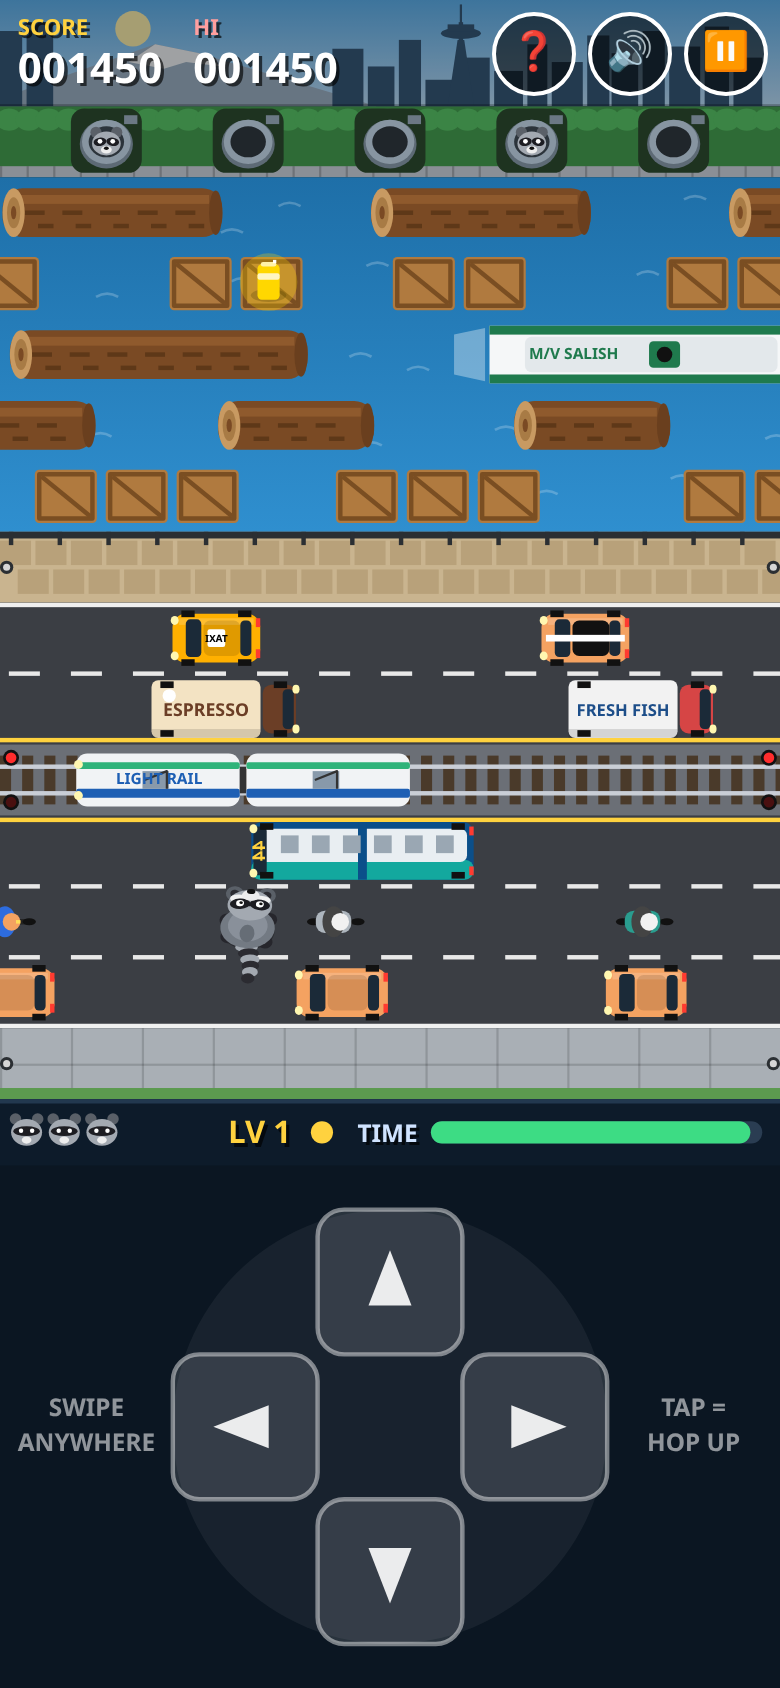
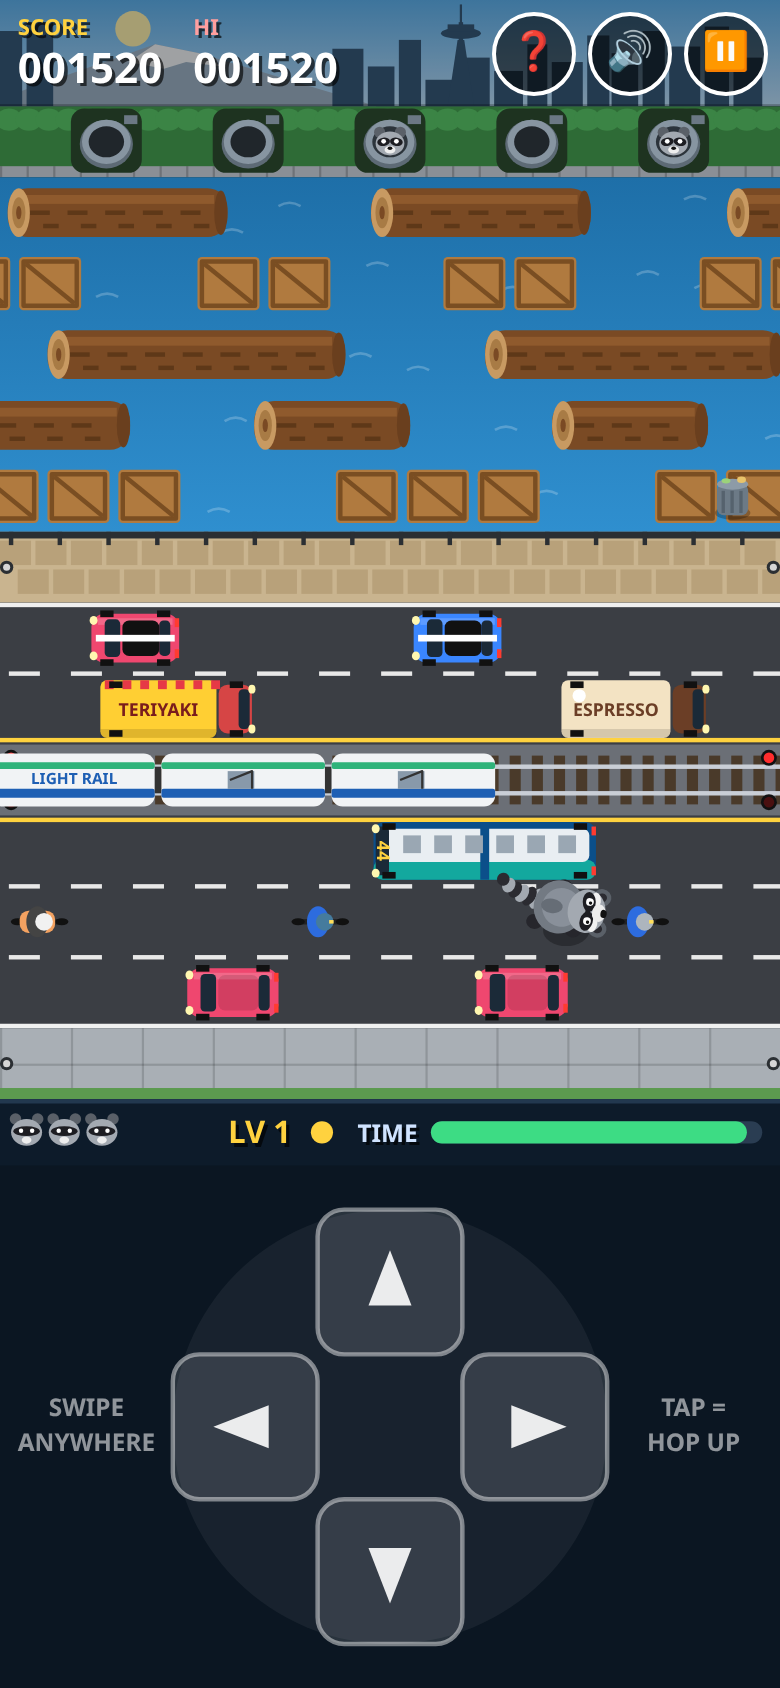
Vehicle text always readable in both travel directions; SW v2

diff --git a/index.html b/index.html
@@ -289,6 +289,8 @@ function drawJimFront(x,y,s,t,mood='happy'){g.save();g.translate(x,y);g.scale(s,
  g.strokeStyle='#222';g.lineWidth=1.6;g.beginPath();if(mood=='sad'){g.arc(0,12,5,PI*1.15,PI*1.85)}else{g.moveTo(0,3);g.lineTo(0,6);g.arc(-3.5,6,3.5,0,PI*.9);g.moveTo(7,6);g.arc(3.5,6,3.5,0,PI*.9,false)}g.stroke();
  if(mood!='sad'){el(0,10.5,2.4,2,'#e8708a')}
  g.restore()}
+// text on mirrored vehicle art: un-mirror locally so it always reads left-to-right
+function ut(s,x,y,dir,rot=0){g.save();g.translate(x,y);if(dir<0)g.scale(-1,1);if(rot)g.rotate(rot);g.textAlign='center';g.textBaseline='middle';g.fillText(s,0,0);g.restore()}
 // ---------- vehicles & platforms (front is +x; mirrored for leftward lanes)
 function wheels(hw,w){g.fillStyle='#111';for(const xx of [-hw+5,hw-11])for(const yy of [-12.5,9.5])g.fillRect(xx,yy,6,3)}
 function drawVeh(o,x,y,dir,night){const w=o.w,hw=w/2;g.save();g.translate(x+hw,y+T/2);if(dir<0)g.scale(-1,1);
@@ -296,19 +298,19 @@ function drawVeh(o,x,y,dir,night){const w=o.w,hw=w/2;g.save();g.translate(x+hw,y
  if(ty=='bike'||ty=='scooter'){g.fillStyle='#222';g.fillRect(-11,-1.2,22,2.4);el(-10,0,3,1.6,'#111');el(10,0,3,1.6,'#111');if(ty=='scooter'){rr(-9,-5,16,10,4,o.col)}
   el(-1,0,5,7,ty=='bike'?'#2d6cdf':'#444');el(2,0,4,4,ty=='bike'?o.col:'#f1f1f1');if(ty=='bike'){g.fillStyle='#ffde59';g.fillRect(4,-.8,2,1.6)}if(night)el(12,0,1.6,1.6,'#fff7b0')}
  else if(ty=='bus'){rr(-hw+1,-13,w-2,26,5,'#0b4f8a');rr(-hw+1,4,w-2,9,4,'#13a89e');rr(-hw+4,-10,w-8,15,3,'#e9eef2');g.fillStyle='#0b4f8a';g.fillRect(-2,-13,4,26);g.fillStyle='#9aa7b3';for(let i=-hw+10;i<hw-12;i+=14)g.fillRect(i,-7,8,8);
-  rr(hw-8,-11,6,22,2,'#1b2a38');setFont(8);g.fillStyle='#ffd23f';g.textAlign='center';g.textBaseline='middle';g.save();g.translate(hw-5,0);g.rotate(PI/2);g.fillText('44',0,0);g.restore();wheels(hw,w);
+  rr(hw-8,-11,6,22,2,'#1b2a38');setFont(8);g.fillStyle='#ffd23f';g.textAlign='center';g.textBaseline='middle';ut('44',hw-5,0,dir,PI/2);wheels(hw,w);
   el(hw-2,-10,1.8,2,'#fff7b0');el(hw-2,10,1.8,2,'#fff7b0');g.fillStyle='#ff3b30';g.fillRect(-hw+1,-11,2,4);g.fillRect(-hw+1,7,2,4)}
  else if(ty=='truck'||ty=='foodtruck'||ty=='coffee'){const cab=15;rr(hw-cab-1,-11,cab,22,4,ty=='coffee'?'#6b3e26':'#d64545');rr(hw-7,-9,5,18,2,'#1b2a38');
   const bc=ty=='foodtruck'?'#ffcf33':ty=='coffee'?'#f3e3c3':'#f2f2f2';rr(-hw+1,-13,w-cab-3,26,3,bc);g.fillStyle='rgba(0,0,0,.12)';g.fillRect(-hw+1,9,w-cab-3,4);
   if(ty=='foodtruck'){g.fillStyle='#e63946';for(let i=-hw+3;i<hw-cab-4;i+=8)g.fillRect(i,-13,4,4)}
-  const lab=ty=='foodtruck'?'TERIYAKI':ty=='coffee'?'ESPRESSO':'FRESH FISH';setFont(ty=='truck'?7.5:8);g.fillStyle=ty=='coffee'?'#6b3e26':ty=='foodtruck'?'#7a1d1d':'#1d4e89';g.textAlign='center';g.textBaseline='middle';g.fillText(lab,(-hw+1+hw-cab-2)/2,1);
+  const lab=ty=='foodtruck'?'TERIYAKI':ty=='coffee'?'ESPRESSO':'FRESH FISH';setFont(ty=='truck'?7.5:8);g.fillStyle=ty=='coffee'?'#6b3e26':ty=='foodtruck'?'#7a1d1d':'#1d4e89';g.textAlign='center';g.textBaseline='middle';ut(lab,(-hw+1+hw-cab-2)/2,1,dir);
   if(ty=='coffee'){el(-hw+9,-6,3,3,'#fff');}wheels(hw,w);el(hw-1,-9,1.6,2,'#fff7b0');el(hw-1,9,1.6,2,'#fff7b0')}
  else{const col=ty=='taxi'?'#ffb000':o.col;rr(-hw+1,-11,w-2,22,6,col);g.fillStyle='rgba(255,255,255,.18)';g.fillRect(-hw+4,-9,w-8,3);
   rr(hw-14,-8.5,7,17,2,'#1b2a38');rr(-hw+5,-8,5,16,2,'#1b2a38');rr(-hw+10,-8,w-25,16,3,ty=='sport'?'#111':'rgba(0,0,0,.12)');
-  if(ty=='sport'){g.fillStyle='#fff';g.fillRect(-hw+3,-1.5,w-6,3)}if(ty=='taxi'){rr(-4,-4,8,8,1,'#fff');setFont(4.5);g.fillStyle='#000';g.textAlign='center';g.textBaseline='middle';g.fillText('TAXI',0,.3)}
+  if(ty=='sport'){g.fillStyle='#fff';g.fillRect(-hw+3,-1.5,w-6,3)}if(ty=='taxi'){rr(-4,-4,8,8,1,'#fff');setFont(4.5);g.fillStyle='#000';g.textAlign='center';g.textBaseline='middle';ut('TAXI',0,.3,dir)}
   wheels(hw,w);el(hw-2,-8,1.8,2,'#fff7b0');el(hw-2,8,1.8,2,'#fff7b0');g.fillStyle='#ff3b30';g.fillRect(-hw+1,-9,2,4);g.fillRect(-hw+1,5,2,4)}
  g.restore()}
-function drawTrain(x,y,len,dir){const cars=Math.round(len/(T*2.4));for(let i=0;i<cars;i++){const cx=x+i*T*2.4,w=T*2.4-3;rr(cx+1,y+4,w,T-8,5,'#f1f3f5');rr(cx+1,y+T-12,w,4,1,'#1e5fb4');rr(cx+1,y+8,w,3,1,'#2fb37a');g.fillStyle='#8899aa';g.fillRect(cx+w/2-6,y+12,12,8);g.strokeStyle='#333';g.lineWidth=1;g.beginPath();g.moveTo(cx+w/2-5,y+16);g.lineTo(cx+w/2+5,y+12);g.lineTo(cx+w/2+5,y+20);g.stroke();
+function drawTrain(x,y,len,dir){const cars=Math.round(len/(T*2.4));for(let i=0;i<cars;i++){const cx=x+i*T*2.4,w=T*2.4-3;rr(cx+1,y+4,w,T-8,5,'#f1f3f5');rr(cx+1,y+T-12,w,4,1,'#1e5fb4');rr(cx+1,y+8,w,3,1,'#2fb37a');if(i>0){g.fillStyle='#8899aa';g.fillRect(cx+w/2-6,y+12,12,8);g.strokeStyle='#333';g.lineWidth=1;g.beginPath();g.moveTo(cx+w/2-5,y+16);g.lineTo(cx+w/2+5,y+12);g.lineTo(cx+w/2+5,y+20);g.stroke();}
   if(i<cars-1){g.fillStyle='#333';g.fillRect(cx+w+1,y+10,3,T-20)}}
  const fx=dir>0?x+cars*T*2.4-4:x+2;el(fx,y+9,2,2,'#fff7b0');el(fx,y+T-9,2,2,'#fff7b0');setFont(7);g.fillStyle='#1e5fb4';g.textAlign='center';g.textBaseline='middle';g.fillText('LIGHT RAIL',x+T*1.2,y+T/2)}
 function drawLog(x,y,w){rr(x,y+5,w,T-10,9,'#7a4a24');g.fillStyle='#8f5a2d';g.fillRect(x+6,y+8,w-12,4);g.fillStyle='#5e3818';for(let i=x+10;i<x+w-10;i+=17){g.fillRect(i,y+15,9,2);g.fillRect(i+6,y+21,7,2)}
@@ -321,7 +323,7 @@ function drawFerry(x,y,w,dir){g.save();g.translate(x+w/2,y+T/2);if(dir<0)g.scale
  g.fillStyle='rgba(255,255,255,.35)';g.beginPath();g.moveTo(-hw-14,-9);g.lineTo(-hw,-12);g.lineTo(-hw,12);g.lineTo(-hw-14,9);g.fill();
  g.fillStyle='#f5f7f8';g.beginPath();g.moveTo(-hw+2,-13);g.lineTo(hw-12,-13);g.quadraticCurveTo(hw+2,0,hw-12,13);g.lineTo(-hw+2,13);g.closePath();g.fill();
  g.fillStyle='#1f7a4d';g.fillRect(-hw+2,9,w-16,4);g.fillRect(-hw+2,-13,w-16,4);rr(-hw+18,-8,w-46,16,3,'#e3e8eb');rr(-6,-6,14,12,2,'#1f7a4d');el(1,0,3.5,3.5,'#111');
- setFont(7);g.fillStyle='#1f7a4d';g.textAlign='center';g.textBaseline='middle';g.fillText('M/V SALISH',-hw+40,0);g.restore()}
+ setFont(7);g.fillStyle='#1f7a4d';g.textAlign='center';g.textBaseline='middle';ut('M/V SALISH',-hw+40,0,dir);g.restore()}
 function drawOrca(x,y,w,dir,t){g.save();g.translate(x+w/2,y+T/2);if(dir<0)g.scale(-1,1);const hw=w/2,f=Math.sin(t*4)*3;
  g.fillStyle='#111';g.beginPath();g.moveTo(-hw-6,-7+f);g.lineTo(-hw+8,0);g.lineTo(-hw-6,7+f);g.fill();el(0,0,hw-2,11,'#141414');el(hw-14,0,12,9,'#141414');
  el(hw-16,-6,5,2.4,'#fff');el(hw-16,6,5,2.4,'#fff');el(-4,0,14,4,'#2b2b2b');el(-2,0,6,2,'#ddd');

diff --git a/src/d_draw.js b/src/d_draw.js
@@ -42,6 +42,8 @@ function drawJimFront(x,y,s,t,mood='happy'){g.save();g.translate(x,y);g.scale(s,
  g.strokeStyle='#222';g.lineWidth=1.6;g.beginPath();if(mood=='sad'){g.arc(0,12,5,PI*1.15,PI*1.85)}else{g.moveTo(0,3);g.lineTo(0,6);g.arc(-3.5,6,3.5,0,PI*.9);g.moveTo(7,6);g.arc(3.5,6,3.5,0,PI*.9,false)}g.stroke();
  if(mood!='sad'){el(0,10.5,2.4,2,'#e8708a')}
  g.restore()}
+// text on mirrored vehicle art: un-mirror locally so it always reads left-to-right
+function ut(s,x,y,dir,rot=0){g.save();g.translate(x,y);if(dir<0)g.scale(-1,1);if(rot)g.rotate(rot);g.textAlign='center';g.textBaseline='middle';g.fillText(s,0,0);g.restore()}
 // ---------- vehicles & platforms (front is +x; mirrored for leftward lanes)
 function wheels(hw,w){g.fillStyle='#111';for(const xx of [-hw+5,hw-11])for(const yy of [-12.5,9.5])g.fillRect(xx,yy,6,3)}
 function drawVeh(o,x,y,dir,night){const w=o.w,hw=w/2;g.save();g.translate(x+hw,y+T/2);if(dir<0)g.scale(-1,1);
@@ -49,19 +51,19 @@ function drawVeh(o,x,y,dir,night){const w=o.w,hw=w/2;g.save();g.translate(x+hw,y
  if(ty=='bike'||ty=='scooter'){g.fillStyle='#222';g.fillRect(-11,-1.2,22,2.4);el(-10,0,3,1.6,'#111');el(10,0,3,1.6,'#111');if(ty=='scooter'){rr(-9,-5,16,10,4,o.col)}
   el(-1,0,5,7,ty=='bike'?'#2d6cdf':'#444');el(2,0,4,4,ty=='bike'?o.col:'#f1f1f1');if(ty=='bike'){g.fillStyle='#ffde59';g.fillRect(4,-.8,2,1.6)}if(night)el(12,0,1.6,1.6,'#fff7b0')}
  else if(ty=='bus'){rr(-hw+1,-13,w-2,26,5,'#0b4f8a');rr(-hw+1,4,w-2,9,4,'#13a89e');rr(-hw+4,-10,w-8,15,3,'#e9eef2');g.fillStyle='#0b4f8a';g.fillRect(-2,-13,4,26);g.fillStyle='#9aa7b3';for(let i=-hw+10;i<hw-12;i+=14)g.fillRect(i,-7,8,8);
-  rr(hw-8,-11,6,22,2,'#1b2a38');setFont(8);g.fillStyle='#ffd23f';g.textAlign='center';g.textBaseline='middle';g.save();g.translate(hw-5,0);g.rotate(PI/2);g.fillText('44',0,0);g.restore();wheels(hw,w);
+  rr(hw-8,-11,6,22,2,'#1b2a38');setFont(8);g.fillStyle='#ffd23f';g.textAlign='center';g.textBaseline='middle';ut('44',hw-5,0,dir,PI/2);wheels(hw,w);
   el(hw-2,-10,1.8,2,'#fff7b0');el(hw-2,10,1.8,2,'#fff7b0');g.fillStyle='#ff3b30';g.fillRect(-hw+1,-11,2,4);g.fillRect(-hw+1,7,2,4)}
  else if(ty=='truck'||ty=='foodtruck'||ty=='coffee'){const cab=15;rr(hw-cab-1,-11,cab,22,4,ty=='coffee'?'#6b3e26':'#d64545');rr(hw-7,-9,5,18,2,'#1b2a38');
   const bc=ty=='foodtruck'?'#ffcf33':ty=='coffee'?'#f3e3c3':'#f2f2f2';rr(-hw+1,-13,w-cab-3,26,3,bc);g.fillStyle='rgba(0,0,0,.12)';g.fillRect(-hw+1,9,w-cab-3,4);
   if(ty=='foodtruck'){g.fillStyle='#e63946';for(let i=-hw+3;i<hw-cab-4;i+=8)g.fillRect(i,-13,4,4)}
-  const lab=ty=='foodtruck'?'TERIYAKI':ty=='coffee'?'ESPRESSO':'FRESH FISH';setFont(ty=='truck'?7.5:8);g.fillStyle=ty=='coffee'?'#6b3e26':ty=='foodtruck'?'#7a1d1d':'#1d4e89';g.textAlign='center';g.textBaseline='middle';g.fillText(lab,(-hw+1+hw-cab-2)/2,1);
+  const lab=ty=='foodtruck'?'TERIYAKI':ty=='coffee'?'ESPRESSO':'FRESH FISH';setFont(ty=='truck'?7.5:8);g.fillStyle=ty=='coffee'?'#6b3e26':ty=='foodtruck'?'#7a1d1d':'#1d4e89';g.textAlign='center';g.textBaseline='middle';ut(lab,(-hw+1+hw-cab-2)/2,1,dir);
   if(ty=='coffee'){el(-hw+9,-6,3,3,'#fff');}wheels(hw,w);el(hw-1,-9,1.6,2,'#fff7b0');el(hw-1,9,1.6,2,'#fff7b0')}
  else{const col=ty=='taxi'?'#ffb000':o.col;rr(-hw+1,-11,w-2,22,6,col);g.fillStyle='rgba(255,255,255,.18)';g.fillRect(-hw+4,-9,w-8,3);
   rr(hw-14,-8.5,7,17,2,'#1b2a38');rr(-hw+5,-8,5,16,2,'#1b2a38');rr(-hw+10,-8,w-25,16,3,ty=='sport'?'#111':'rgba(0,0,0,.12)');
-  if(ty=='sport'){g.fillStyle='#fff';g.fillRect(-hw+3,-1.5,w-6,3)}if(ty=='taxi'){rr(-4,-4,8,8,1,'#fff');setFont(4.5);g.fillStyle='#000';g.textAlign='center';g.textBaseline='middle';g.fillText('TAXI',0,.3)}
+  if(ty=='sport'){g.fillStyle='#fff';g.fillRect(-hw+3,-1.5,w-6,3)}if(ty=='taxi'){rr(-4,-4,8,8,1,'#fff');setFont(4.5);g.fillStyle='#000';g.textAlign='center';g.textBaseline='middle';ut('TAXI',0,.3,dir)}
   wheels(hw,w);el(hw-2,-8,1.8,2,'#fff7b0');el(hw-2,8,1.8,2,'#fff7b0');g.fillStyle='#ff3b30';g.fillRect(-hw+1,-9,2,4);g.fillRect(-hw+1,5,2,4)}
  g.restore()}
-function drawTrain(x,y,len,dir){const cars=Math.round(len/(T*2.4));for(let i=0;i<cars;i++){const cx=x+i*T*2.4,w=T*2.4-3;rr(cx+1,y+4,w,T-8,5,'#f1f3f5');rr(cx+1,y+T-12,w,4,1,'#1e5fb4');rr(cx+1,y+8,w,3,1,'#2fb37a');g.fillStyle='#8899aa';g.fillRect(cx+w/2-6,y+12,12,8);g.strokeStyle='#333';g.lineWidth=1;g.beginPath();g.moveTo(cx+w/2-5,y+16);g.lineTo(cx+w/2+5,y+12);g.lineTo(cx+w/2+5,y+20);g.stroke();
+function drawTrain(x,y,len,dir){const cars=Math.round(len/(T*2.4));for(let i=0;i<cars;i++){const cx=x+i*T*2.4,w=T*2.4-3;rr(cx+1,y+4,w,T-8,5,'#f1f3f5');rr(cx+1,y+T-12,w,4,1,'#1e5fb4');rr(cx+1,y+8,w,3,1,'#2fb37a');if(i>0){g.fillStyle='#8899aa';g.fillRect(cx+w/2-6,y+12,12,8);g.strokeStyle='#333';g.lineWidth=1;g.beginPath();g.moveTo(cx+w/2-5,y+16);g.lineTo(cx+w/2+5,y+12);g.lineTo(cx+w/2+5,y+20);g.stroke();}
   if(i<cars-1){g.fillStyle='#333';g.fillRect(cx+w+1,y+10,3,T-20)}}
  const fx=dir>0?x+cars*T*2.4-4:x+2;el(fx,y+9,2,2,'#fff7b0');el(fx,y+T-9,2,2,'#fff7b0');setFont(7);g.fillStyle='#1e5fb4';g.textAlign='center';g.textBaseline='middle';g.fillText('LIGHT RAIL',x+T*1.2,y+T/2)}
 function drawLog(x,y,w){rr(x,y+5,w,T-10,9,'#7a4a24');g.fillStyle='#8f5a2d';g.fillRect(x+6,y+8,w-12,4);g.fillStyle='#5e3818';for(let i=x+10;i<x+w-10;i+=17){g.fillRect(i,y+15,9,2);g.fillRect(i+6,y+21,7,2)}
@@ -74,7 +76,7 @@ function drawFerry(x,y,w,dir){g.save();g.translate(x+w/2,y+T/2);if(dir<0)g.scale
  g.fillStyle='rgba(255,255,255,.35)';g.beginPath();g.moveTo(-hw-14,-9);g.lineTo(-hw,-12);g.lineTo(-hw,12);g.lineTo(-hw-14,9);g.fill();
  g.fillStyle='#f5f7f8';g.beginPath();g.moveTo(-hw+2,-13);g.lineTo(hw-12,-13);g.quadraticCurveTo(hw+2,0,hw-12,13);g.lineTo(-hw+2,13);g.closePath();g.fill();
  g.fillStyle='#1f7a4d';g.fillRect(-hw+2,9,w-16,4);g.fillRect(-hw+2,-13,w-16,4);rr(-hw+18,-8,w-46,16,3,'#e3e8eb');rr(-6,-6,14,12,2,'#1f7a4d');el(1,0,3.5,3.5,'#111');
- setFont(7);g.fillStyle='#1f7a4d';g.textAlign='center';g.textBaseline='middle';g.fillText('M/V SALISH',-hw+40,0);g.restore()}
+ setFont(7);g.fillStyle='#1f7a4d';g.textAlign='center';g.textBaseline='middle';ut('M/V SALISH',-hw+40,0,dir);g.restore()}
 function drawOrca(x,y,w,dir,t){g.save();g.translate(x+w/2,y+T/2);if(dir<0)g.scale(-1,1);const hw=w/2,f=Math.sin(t*4)*3;
  g.fillStyle='#111';g.beginPath();g.moveTo(-hw-6,-7+f);g.lineTo(-hw+8,0);g.lineTo(-hw-6,7+f);g.fill();el(0,0,hw-2,11,'#141414');el(hw-14,0,12,9,'#141414');
  el(hw-16,-6,5,2.4,'#fff');el(hw-16,6,5,2.4,'#fff');el(-4,0,14,4,'#2b2b2b');el(-2,0,6,2,'#ddd');

diff --git a/sw.js b/sw.js
@@ -1,4 +1,4 @@
-const P='jimothys-crossing-',V=P+'v1',OLD=[],FILES=['./','index.html','manifest.json','icon-192.png','icon-512.png'];
+const P='jimothys-crossing-',V=P+'v2',OLD=[],FILES=['./','index.html','manifest.json','icon-192.png','icon-512.png'];
 self.addEventListener('install',e=>{e.waitUntil(caches.open(V).then(c=>c.addAll(FILES)));self.skipWaiting()});
 self.addEventListener('activate',e=>{e.waitUntil(caches.keys().then(k=>Promise.all(k.filter(n=>n!=V&&(n.startsWith(P)||OLD.some(o=>n.startsWith(o)))).map(n=>caches.delete(n)))).then(()=>self.clients.claim()))});
 self.addEventListener('fetch',e=>{if(e.request.method!='GET')return;e.respondWith(fetch(e.request).then(r=>{if(r.ok){const cp=r.clone();caches.open(V).then(c=>c.put(e.request,cp))}return r}).catch(()=>caches.open(V).then(c=>c.match(e.request,{ignoreSearch:true}).then(r=>r||(e.request.mode=='navigate'?c.match('./'):undefined)))))});

diff --git a/test/add_tile.py b/test/add_tile.py
@@ -1,0 +1,22 @@
+# Adds the Jimothy's Crossing tile to the Peter's Arcade hub (run right after git pull --rebase).
+import re,shutil,subprocess
+H='/workspace/peters-arcade';R='jimothys-crossing'
+s=open(H+'/index.html',encoding='utf-8').read()
+if f'ploug76.github.io/{R}/' not in s:
+  tile=('<div class="card"><a class="tile" href="https://ploug76.github.io/jimothys-crossing/"><img src="covers/jimothys-crossing.gif" width="720" height="378" alt="Jimothy&#x27;s Crossing 8-bit box cover" loading="lazy"><b>Jimothy&#x27;s Crossing</b>'
+   '<span>Hop Seattle&#x27;s famous raccoon across traffic, light rail &amp; the Sound to his trash-can dens!</span></a>'
+   '<button class="tshare" type="button" data-url="https://ploug76.github.io/jimothys-crossing/" data-title="Jimothy&#x27;s Crossing" data-text="Play Jimothy&#x27;s Crossing — a free family-friendly 8-bit game from Peter&#x27;s Arcade!" aria-label="Share Jimothy&#x27;s Crossing">🔗 Share</button></div>\n')
+  i=s.index('</main>');s=s[:i]+tile+s[i:]
+n=s.count('class="card"');old=n-1
+s=re.sub(r'\b\d+ (free )?family-friendly 8-bit (style )?games',lambda m:m.group(0).replace(m.group(0).split()[0],str(n),1),s)
+open(H+'/index.html','w',encoding='utf-8').write(s)
+shutil.copy(f'/workspace/covers/{R}/cover-anim.gif',f'{H}/covers/{R}.gif')
+w=open(H+'/sw.js').read();v=int(re.search(r"V=P\+'v(\d+)'",w).group(1))
+if f"'covers/{R}.gif'" not in w:w=w.replace("FILES=['./', ",f"FILES=['./', 'covers/{R}.gif', ",1)
+w=re.sub(r"V=P\+'v\d+'",f"V=P+'v{v+1}'",w);open(H+'/sw.js','w').write(w)
+# keep the shared generators in sync with the real count, then regenerate the hub cover
+for p,pat,rep in [('/workspace/covers/gen.py',r"'\d+ GAMES'",f"'{n} GAMES'"),('/workspace/covers/meta.py',r"Peter's Arcade: \d+ family",f"Peter's Arcade: {n} family"),('/workspace/launch/share.py',r"Peter's Arcade: \d+ free family",f"Peter's Arcade: {n} free family")]:
+  t=open(p).read();open(p,'w').write(re.sub(pat,rep,t))
+subprocess.run(['python3','gen.py','peters-arcade'],cwd='/workspace/covers',check=True)
+for f in ('cover.png','cover-anim.gif'):shutil.copy(f'/workspace/covers/peters-arcade/{f}',f'{H}/{f}')
+print('tiles',n,'sw v',v+1)

diff --git a/test/text_dir_test.py b/test/text_dir_test.py
@@ -1,0 +1,13 @@
+# Renders every labelled vehicle in both travel directions so the text can be checked for mirroring.
+import asyncio,sys
+from playwright.async_api import async_playwright
+URL=sys.argv[1] if len(sys.argv)>1 else 'http://localhost:8800/jimothys-crossing/'
+JS=r'''()=>{window.__manual=true;render=()=>{};const types=['taxi','bus','truck','foodtruck','coffee'];g.setTransform(1,0,0,1,0,0);g.fillStyle='#3b3e44';g.fillRect(0,0,c.width,c.height);const k=3*DPR;g.setTransform(k,0,0,k,0,0);
+ types.forEach((t,i)=>{[1,-1].forEach((d,j)=>{const o={type:t,w:WID[t]*T,col:'#e63946'};drawVeh(o,6+j*115,4+i*36,d,false)})});
+ g.fillStyle='#1e6fa8';g.fillRect(0,186,240,80);drawFerry(6,190,160,1,0);drawFerry(6,226,160,-1,0);drawTrain(0,270,T*4.8,1);drawTrain(0,306,T*4.8,-1);
+ g.setTransform(1,0,0,1,0,0)}'''
+async def main():
+  async with async_playwright() as p:
+    b=await p.chromium.launch();pg=await b.new_page(viewport={'width':760,'height':1060});errs=[];pg.on('pageerror',lambda e:errs.append(str(e)))
+    await pg.goto(URL);await pg.wait_for_timeout(600);await pg.evaluate(JS);await pg.screenshot(path='text_dirs.png');print('errs',errs);await b.close()
+asyncio.run(main())

diff --git a/test/func_test.py b/test/func_test.py
@@ -46,7 +46,7 @@ async def main():
       sc=await pg.evaluate("[__T.get().state,localStorage.getItem('jimothys-crossing:scores'),localStorage.getItem('jimothys-crossing:best')]");ok(f'{w}x{h} game over + scores saved',sc[0]=='over' and sc[1] and sc[2] is not None,str(sc))
       if w==390:
         sw=await pg.evaluate("navigator.serviceWorker.ready.then(r=>r.active&&r.active.scriptURL)");await pg.wait_for_timeout(800);ck=await pg.evaluate("caches.keys()")
-        ok('service worker active + own cache',sw and sw.endswith('sw.js') and ck==['jimothys-crossing-v1'],f'{ck}')
+        ok('service worker active + own cache',sw and sw.endswith('sw.js') and len(ck)==1 and ck[0].startswith('jimothys-crossing-v'),f'{ck}')
         man=await pg.evaluate("fetch('manifest.json').then(r=>r.json())");ok('manifest ok',man['name']=="Jimothy's Crossing" and len(man['icons'])==2)
       ok(f'{w}x{h} no JS errors',not errs,str(errs[:3]))
       await ctx.close()
